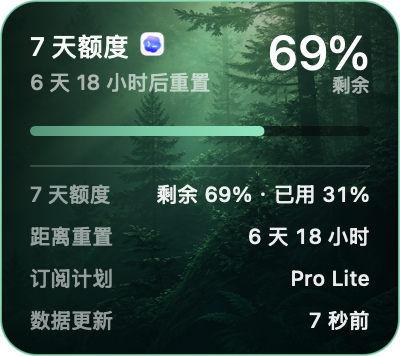
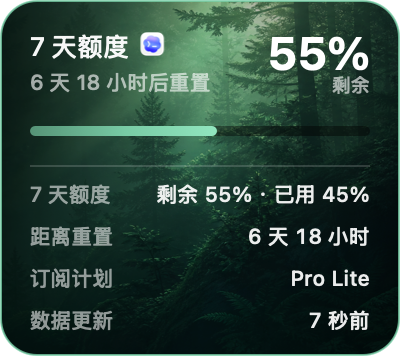
refine: reduce and bold remaining percentage

diff --git a/Sources/QuotaGrove/QuotaCardView.swift b/Sources/QuotaGrove/QuotaCardView.swift
@@ -429,7 +429,7 @@ final class QuotaCardView: NSView {
         drawCodexIcon(at: NSPoint(x: markX, y: top - 29.5), size: 15)
 
         let percent = snapshot.map { "\($0.roundedRemaining)%" } ?? "--%"
-        let percentFont = NSFont.monospacedDigitSystemFont(ofSize: 24, weight: .medium)
+        let percentFont = NSFont.monospacedDigitSystemFont(ofSize: 23, weight: .bold)
         let percentWidth = (percent as NSString).size(withAttributes: [.font: percentFont]).width
         let staleBadgeX = markX + 19
         if isStale, staleBadgeX + 24 <= contentRight - percentWidth - 5 {
